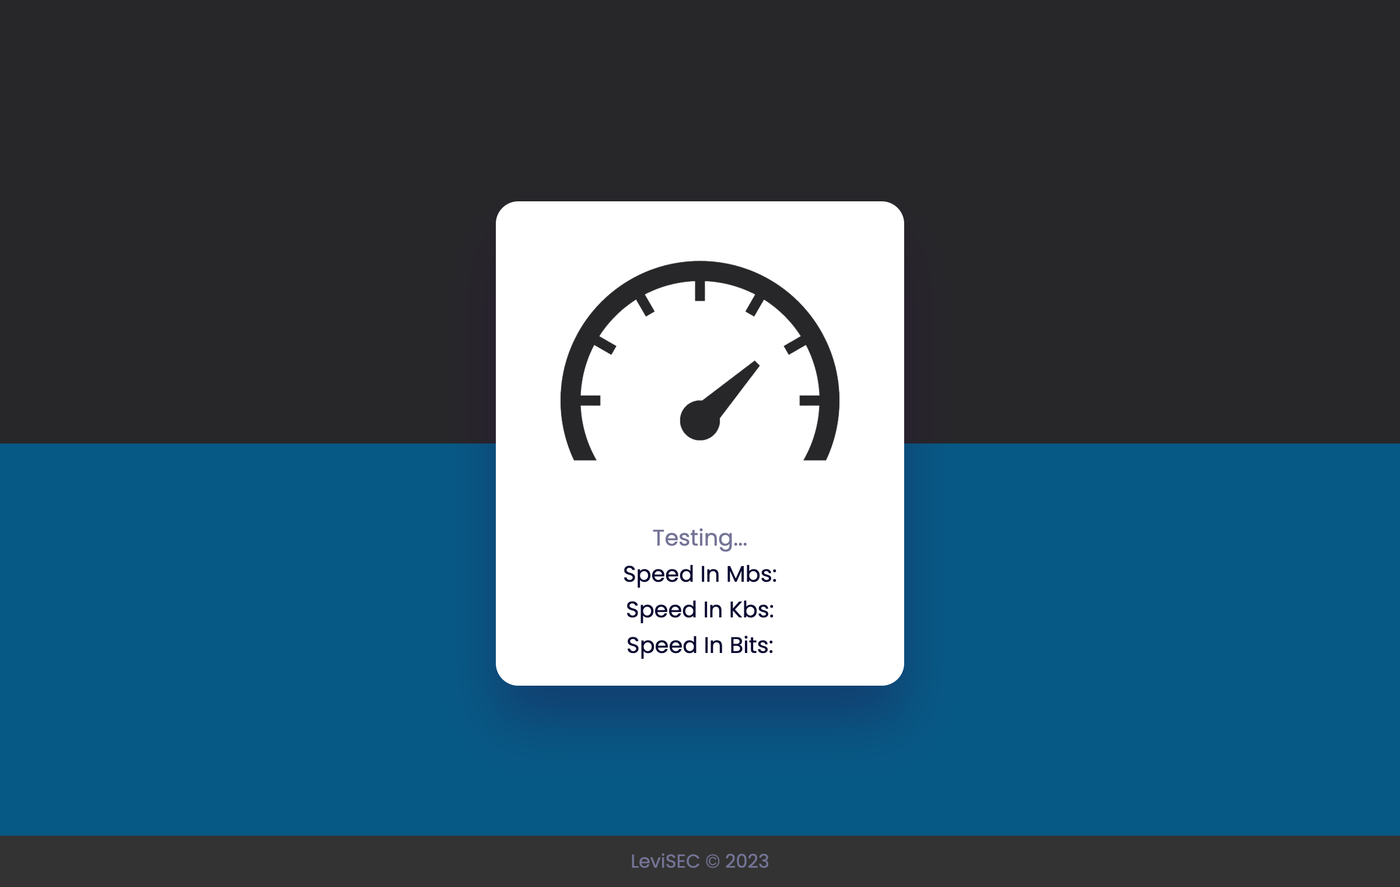
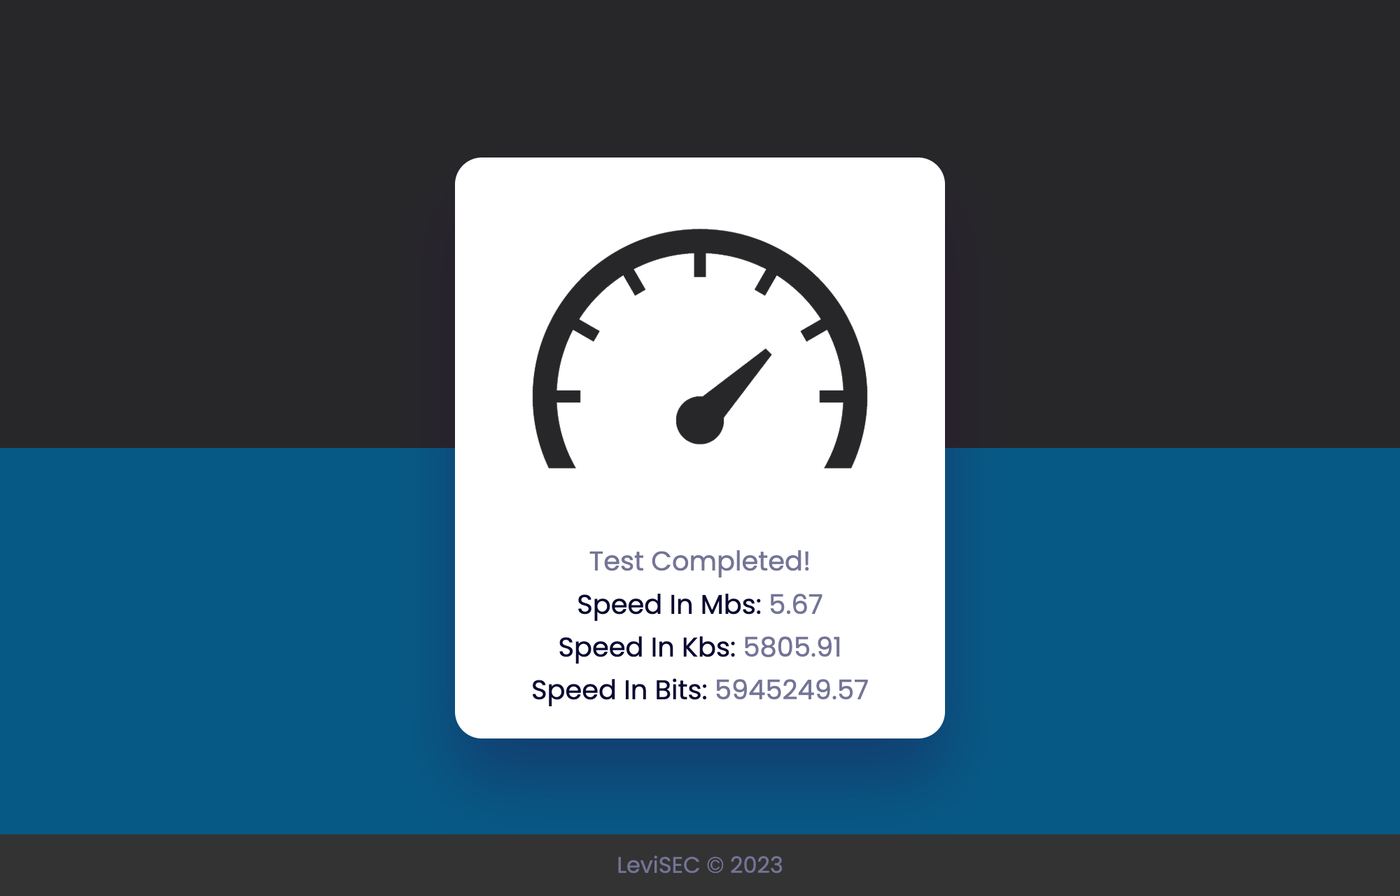
Fix the speed test: download from picsum.photos and measure the bytes received
source.unsplash.com has been shut down, so the test never finished. It now
downloads three photos from picsum.photos, counts the bytes that arrive
instead of relying on the content-length header, and shows the average.

diff --git a/index.js b/index.js
@@ -1,75 +1,55 @@
-let startTime, endTime;
-let imageSize = "";
-let image = new Image();
 let bitSpeed = document.getElementById("bits"),
   kbSpeed = document.getElementById("kbs"),
   mbSpeed = document.getElementById("mbs"),
   info = document.getElementById("info");
 
-let totalBitSpeed = 0;
-let totalKbSpeed = 0;
-let totalMbSpeed = 0;
-let numTests = 1;
-let testCompleted = 0;
+let numTests = 3;
 
-// Get random image from unsplash.com
-let imageApi = "https://source.unsplash.com/random?topic=nature";
+// A large random photo from picsum.photos. The query string makes every request unique,
+// so the browser never answers from its cache.
+const imageApi = () => `https://picsum.photos/3000/2000?random=${Date.now()}-${Math.random()}`;
 
-// When image loads
-image.onload = async function () {
-  endTime = new Date().getTime();
+// Download one image and return the speed in bits per second.
+// The size is measured from the bytes actually received, so it doesn't depend on
+// the server sending a content-length header.
+async function measureSpeed() {
+  const startTime = performance.now();
+  const response = await fetch(imageApi(), { cache: "no-store" });
+  const blob = await response.blob();
+  const endTime = performance.now();
 
-  // Get image size
-  await fetch(imageApi).then((response) => {
-    imageSize = response.headers.get("content-length");
-    calculateSpeed();
-  });
-};
-
-// Function to calculate speed
-function calculateSpeed() {
   // Time taken in seconds
-  let timeDuration = (endTime - startTime) / 1000;
+  const timeDuration = (endTime - startTime) / 1000;
   // Total bits
-  let loadedBits = imageSize * 8;
-  let speedInBts = loadedBits / timeDuration;
-  let speedInKbs = speedInBts / 1024;
-  let speedInMbs = speedInKbs / 1024;
-
-  totalBitSpeed += speedInBts;
-  totalKbSpeed += speedInKbs;
-  totalMbSpeed += speedInMbs;
-
-  testCompleted++;
-
-  // If all tests completed (we get 5 image then calculate average)
-  if (testCompleted === numTests) {
-    let averageSpeedInBps = (totalBitSpeed / numTests).toFixed(2);
-    let averageSpeedInKbps = (totalKbSpeed / numTests).toFixed(2);
-    let averageSpeedInMbps = (totalMbSpeed / numTests).toFixed(2);
-
-    // Display average speeds
-    bitSpeed.innerHTML += `${averageSpeedInBps}`;
-    kbSpeed.innerHTML += `${averageSpeedInKbps}`;
-    mbSpeed.innerHTML += `${averageSpeedInMbps}`;
-    info.innerHTML = "Test Completed!";
-  } else {
-    // Run the next test
-    startTime = new Date().getTime();
-    image.src = imageApi;
-  }
+  const loadedBits = blob.size * 8;
+  return loadedBits / timeDuration;
 }
 
-// Initial function to start tests
+// Run the tests one after another and show the average
 const init = async () => {
   info.innerHTML = "Testing...";
-  startTime = new Date().getTime();
-  image.src = imageApi;
+  let totalBitSpeed = 0;
+
+  try {
+    for (let i = 0; i < numTests; i++) {
+      totalBitSpeed += await measureSpeed();
+      info.innerHTML = `Testing... ${i + 1}/${numTests}`;
+    }
+  } catch (error) {
+    info.innerHTML = "Test failed. Check your connection and try again.";
+    return;
+  }
+
+  const averageSpeedInBps = totalBitSpeed / numTests;
+  const averageSpeedInKbps = averageSpeedInBps / 1024;
+  const averageSpeedInMbps = averageSpeedInKbps / 1024;
+
+  // Display average speeds
+  bitSpeed.innerHTML += `${averageSpeedInBps.toFixed(2)}`;
+  kbSpeed.innerHTML += `${averageSpeedInKbps.toFixed(2)}`;
+  mbSpeed.innerHTML += `${averageSpeedInMbps.toFixed(2)}`;
+  info.innerHTML = "Test Completed!";
 };
 
-// Run tests when window loads
-window.onload = () => {
-  for (let i = 0; i < numTests; i++) {
-    init();
-  }
-};
+// Run the test when the window loads
+window.onload = init;

diff --git a/README.md b/README.md
@@ -4,8 +4,6 @@ Estimates your download speed in the browser, in plain HTML, CSS and JavaScript.
 
 <img alt="Internet Speed Test" src="screenshot.png" />
 
-The page downloads a random image, times how long it takes and divides the image's size by that time, then shows the result in bits, kilobits and megabits per second.
-
-The images came from `source.unsplash.com`, which Unsplash has since shut down, so the test now stays on "Testing…". Pointing `imageApi` in `index.js` at any other large image with a known size makes it work again.
+The page downloads three large random photos from [Picsum](https://picsum.photos), one after another. For each one it counts the bytes that actually arrived and divides them by the time the download took, then shows the average in bits, kilobits and megabits per second.
 
 Open `index.html` in a browser to use it; there is nothing to install.
